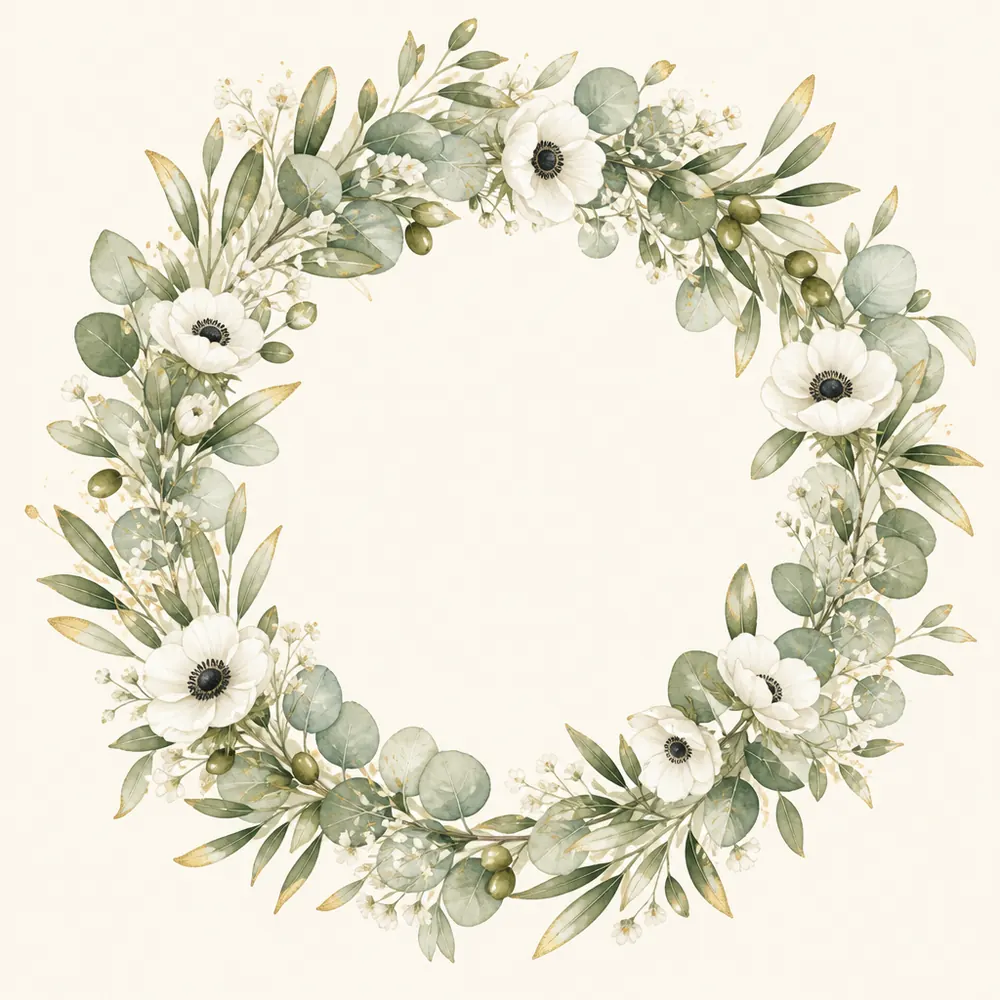
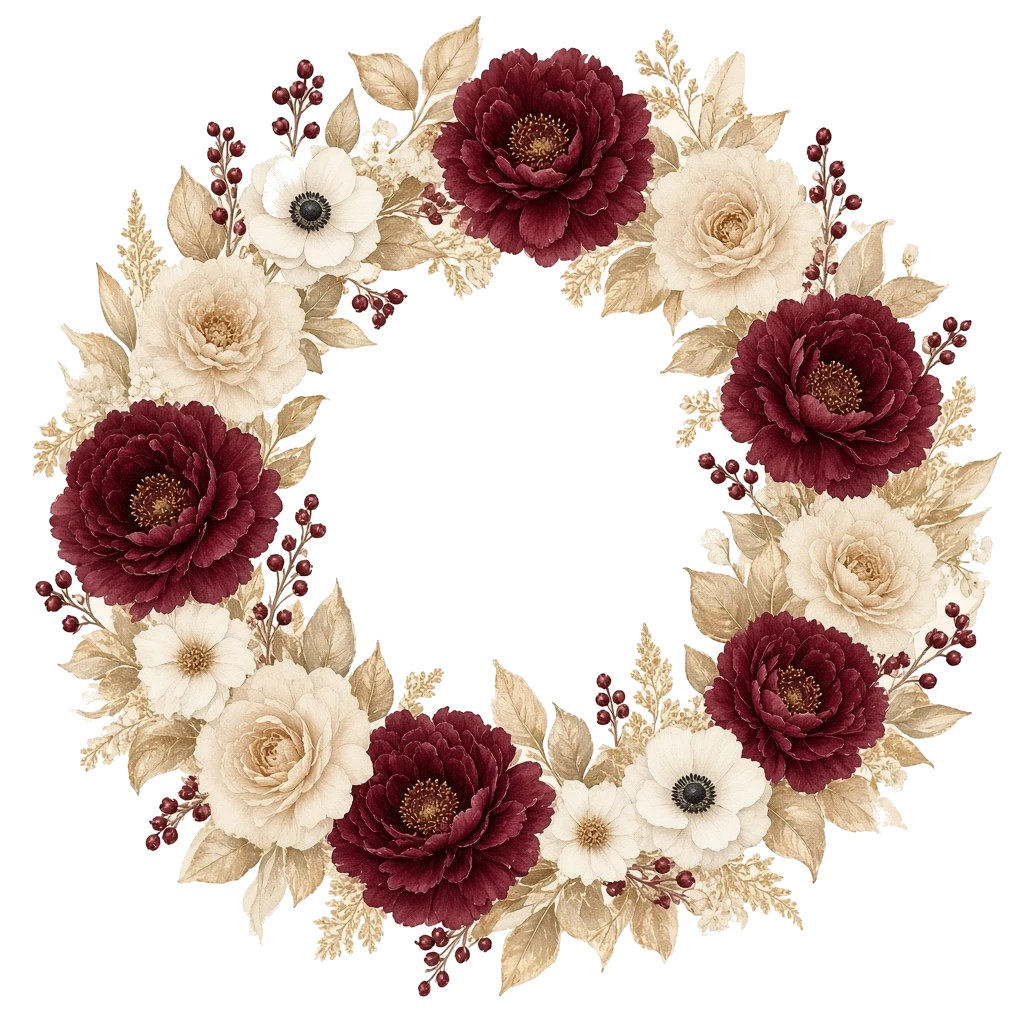
Replace the finale wreath with matching burgundy florals
The closing card still used a sage eucalyptus wreath that sat in a cream square. Swap it for a burgundy, ivory, and gold wreath with a transparent ground so it matches the rest of the invitation.

diff --git a/index.html b/index.html
@@ -766,7 +766,7 @@
       width: min(62vw, 220px); margin: 0 auto 14px;
     }
     .finale-ornament img {
-      width: 100%; mix-blend-mode: multiply; opacity: 0.9;
+      width: 100%; mix-blend-mode: multiply;
     }
     .finale-line {
       font-family: "Aref Ruqaa", serif;
